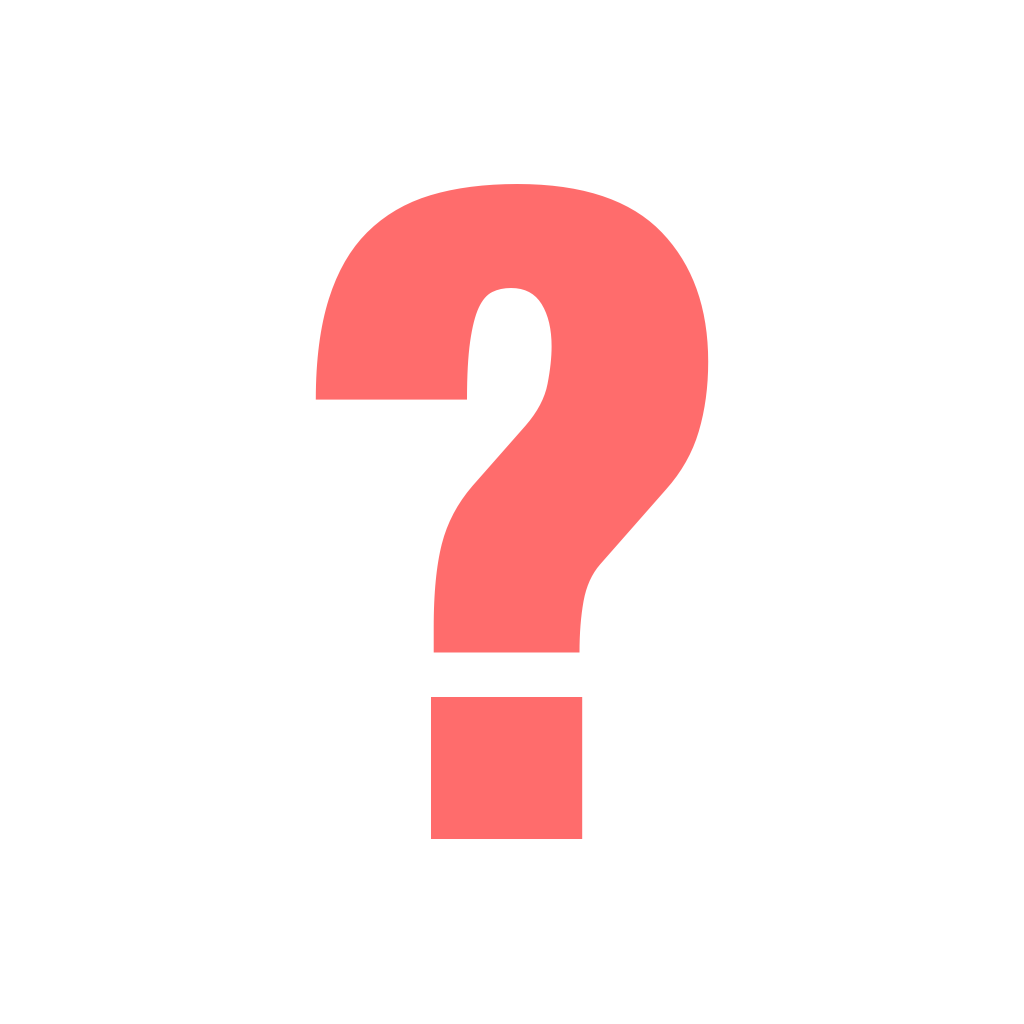
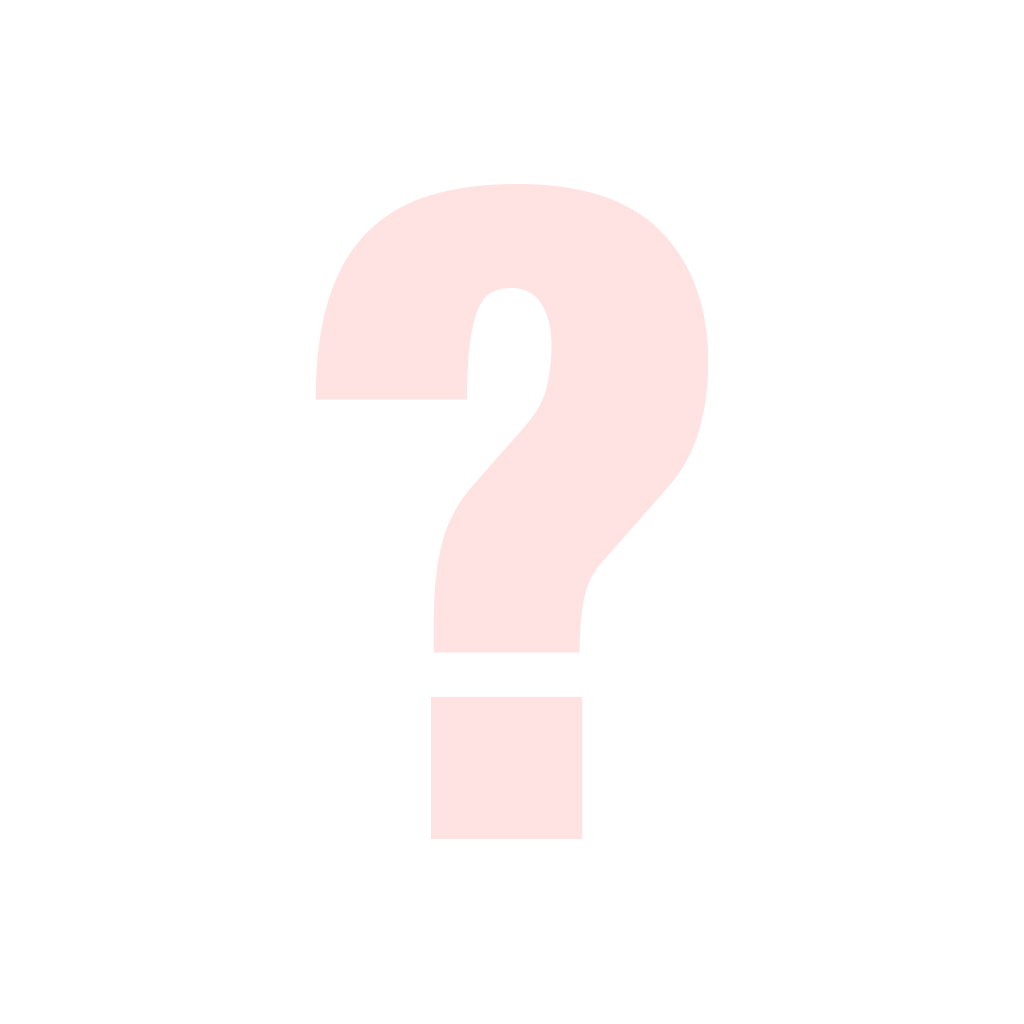
Fix faint marginalia card on blocked profile
The beacon-blocked and beacon-blocked-idle profiles forced Blend: 0.20
for the red !/? watermark image. When the user also set a description
(triggering the marginalia card via OSC SetBackgroundImageFile), the
card inherited that 0.20 blend and rendered nearly invisibly. Bake the
dilution into the watermark PNGs themselves (alpha *= 0.20) and drop
the per-state Blend override, so every bg image — card or watermark —
renders at the composed tone the base profile's Blend: 1.0 promises.

Bump to 0.18.1.

Changed region(s): [[0.2812, 0.1562, 0.7188, 0.8438]]

diff --git a/docs/spec.md b/docs/spec.md
@@ -692,7 +692,7 @@ Two writers set this format:
 
 Once set, iTerm2 re-evaluates the format whenever a referenced `user.*` variable changes, so subsequent project updates flow in automatically.
 
-**Color, alpha, sizing, and the static state image** are delivered via **a family of dynamic profiles** — one per non-paused logical state (`ready` / `busy` / `blocked` / `blocked-idle`). All state profiles inherit from a shared base `beacon` profile via `Dynamic Profile Parent Name`, so they share the status-bar layout (STATUS-BAR-02), badge sizing (BADGE-13), font, and margins. The base profile also sets `Blend: 1.0` so that bg images — whether the pause overlay (OVERLAY-01) or static state images (BADGE-15) — render at their composed colors without being mixed with the profile's bg color. Blocked profiles override `Blend` back down to a low value to keep the `!` / `?` watermarks as a quiet backdrop behind active terminal content. Each state profile overrides only the values that vary by state:
+**Color, alpha, sizing, and the static state image** are delivered via **a family of dynamic profiles** — one per non-paused logical state (`ready` / `busy` / `blocked` / `blocked-idle`). All state profiles inherit from a shared base `beacon` profile via `Dynamic Profile Parent Name`, so they share the status-bar layout (STATUS-BAR-02), badge sizing (BADGE-13), font, and margins. The base profile sets `Blend: 1.0` so every bg image — overlay card (OVERLAY-01) or static state image (BADGE-15) — renders at the composed tone the writer intended; no state profile overrides Blend. The `!` / `?` watermark PNGs carry their own pre-faded alpha so they read as a quiet backdrop behind active terminal content without depending on profile Blend. The marginalia card relies on the same `Blend: 1.0`: when an overlay is painted while the active profile is `beacon-blocked` (description + pending_attention), the card must inherit the base's full blend, not a per-state dilution. Each state profile overrides only the values that vary by state:
 
 | Profile               | Badge Color (alpha) | Tab Color | Background Image           |
 |:----------------------|:--------------------|:----------|:---------------------------|

diff --git a/CHANGELOG.md b/CHANGELOG.md
@@ -1,5 +1,13 @@
 # Changelog
 
+## 0.18.1
+
+### Fixes
+- Marginalia card no longer renders faintly when a description is set while the session is also showing a permission/idle prompt. The `beacon-blocked` and `beacon-blocked-idle` profiles were forcing `Blend: 0.20` for the red `!` / `?` watermark; that dilution bled into the card painted on top via OSC. Blend is now `1.0` across every state profile, and the watermark PNGs carry their pre-faded alpha so they still read as a quiet backdrop.
+
+### Migration
+- Re-run `python3 scripts/beacon install` after upgrading so iTerm2 picks up the updated `beacon-blocked` / `beacon-blocked-idle` profile templates (without re-install, the cached profiles keep `Blend: 0.20`).
+
 ## 0.18.0
 
 ### Features
